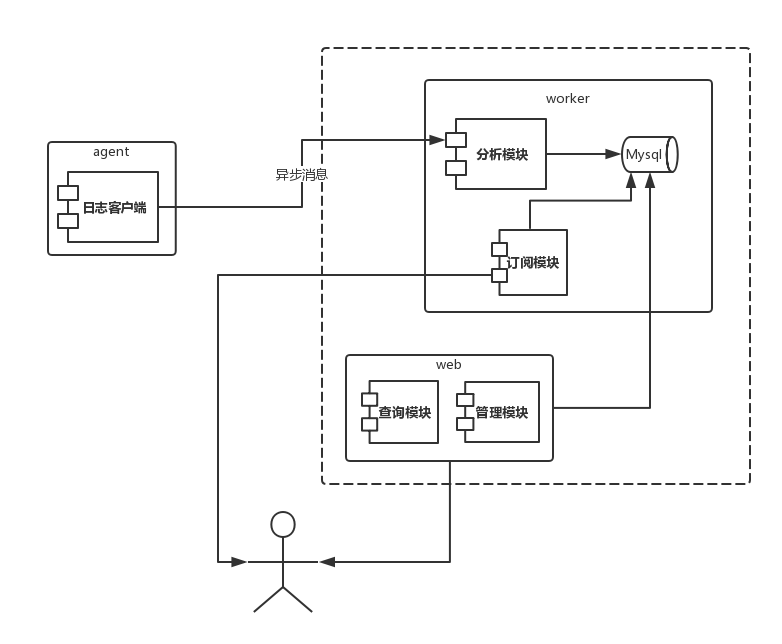
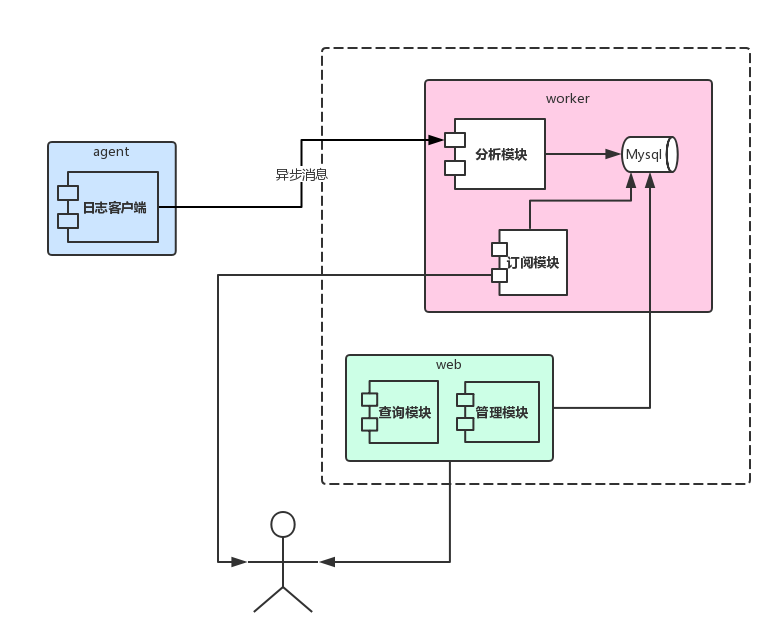
update at 02.13 design

diff --git a/_posts/newsql/2019-02-11-how-we-design-mbappe.md b/_posts/newsql/2019-02-11-how-we-design-mbappe.md
@@ -4,7 +4,7 @@ title: "慢查询告警系统(测试阶段)——系统设计"
 author: "见欢"
 ---
 ### 业务背景和目标
-**业务背景**、**业务目标**请参考 [慢查询告警系统(测试阶段)——需求分析]({% post_url 2019-02-09-why-we-need-sql-analyse %})
+**业务背景**、**业务目标**请参考 [慢查询告警系统(测试阶段)——需求分析]({% post_url 2019-02-09-why-we-need-sql-analyse %}) 
 ### 参考文档
   无
 ### 功能需求用例
@@ -30,6 +30,44 @@ author: "见欢"
   无
 ### 系统边界分析设计
 ![]({{ site.url }}/assets/newsql/系统架构图.png) 
+
+系统说明：  
+agent：作为信息拦截，采集然后发送异步消息的客户端  
+worker：消息消费，SQL分析，入库，告警  
+web：订阅管理、SQL处理、查询等
+
 ### 核心业务流程设计
+sql实体状态图
+![]({{ site.url }}/assets/newsql/sql实体状态图.png) 
 ### 数据分析设计
+sql实体相关表设计
+![]({{ site.url }}/assets/newsql/数据库设计.png) 
+
+通知模块相关设计  
+
+待补充...
+
 ### 关键用例设计
+sql的数量非常多，因此需要对sql进行了参数化(模板化)处理，如下例子：
+{% highlight sql %}
+#Input
+select * from category where game_id in (2,13,13,13,16,26,28,228,228,759);
+#Output
+select * from category where game_id in (?);
+
+#Input
+select server_id, name from game_server where pub_name="myname" and state=1 and is_common_server=2 and is_top=1 or (name in ("crossfire", "new")) group by name order by grade desc;
+#Output
+select server_id, name from game_server where pub_name=? and state=? and is_common_server=? and is_top=? or (name in (?)) group by name order by grade desc;
+
+#Input
+select * from shop where shop_name like '%ucdamai%' order by ctime desc limit 0,15;
+#Output
+select * from shop where shop_name like ? order by ctime desc limit ?,?;
+
+{% endhighlight %}
+
+同一个app_name下同一个执行数据库只有唯一的一条参数化 sql，保证了数据量可控，人工易于处理；参数化sql关联实际的sql（含多条），前端查询时由参数化sql获取实际的sql。
+
+1、新增sql判断
+![]({{ site.url }}/assets/newsql/新增SQL判断.png) 
